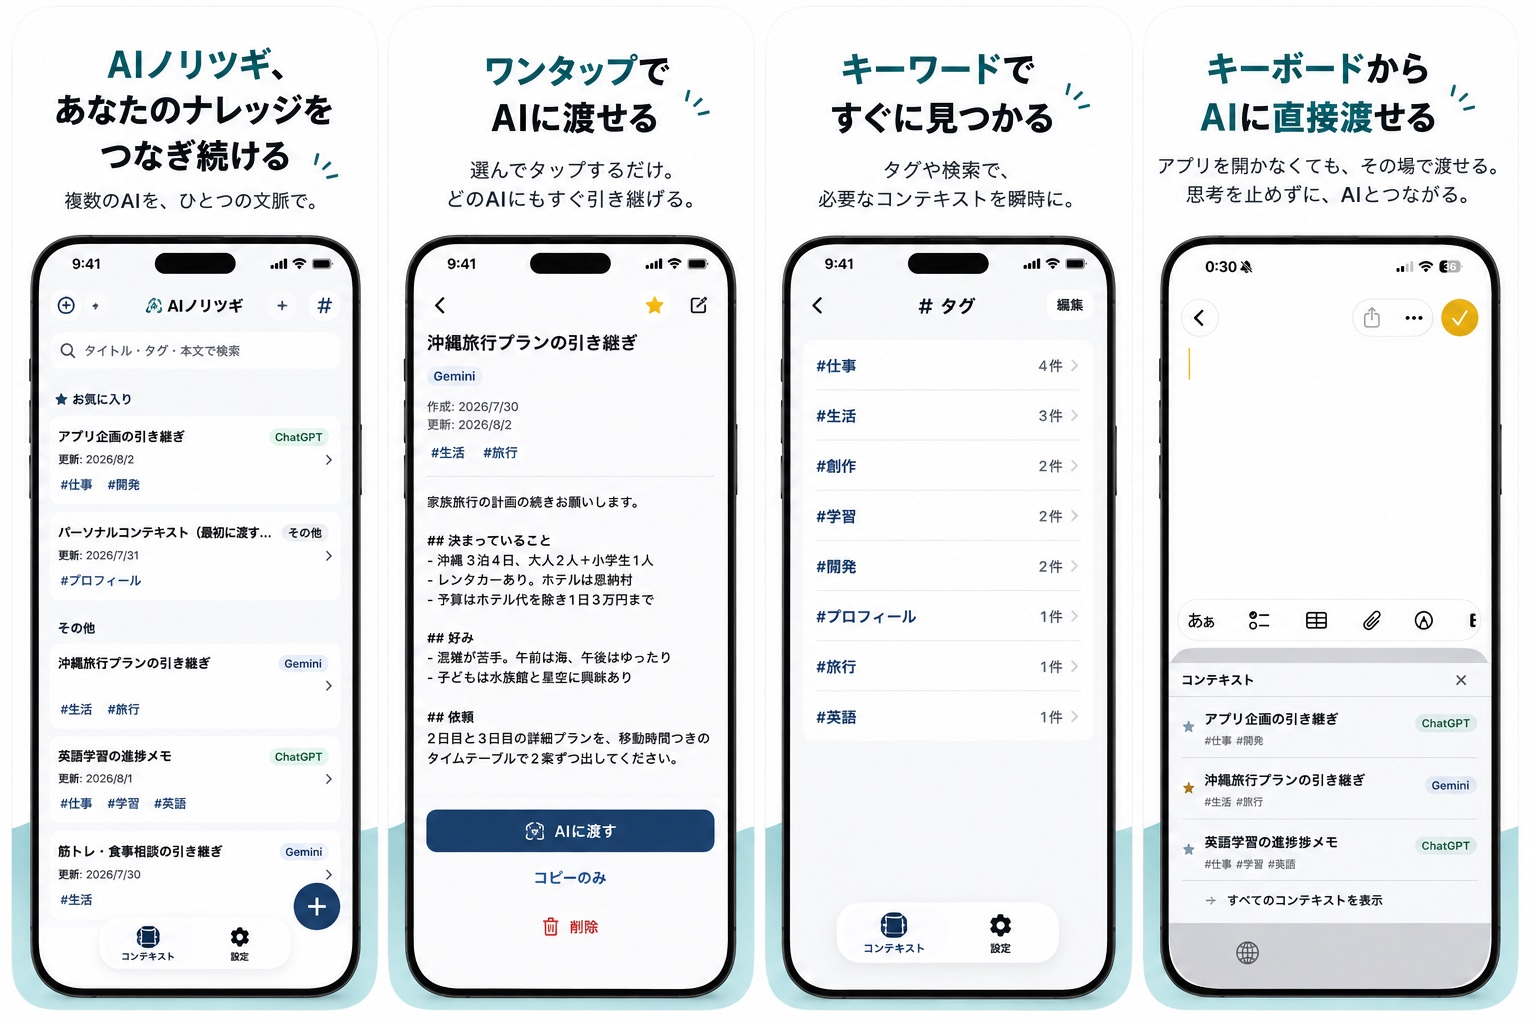
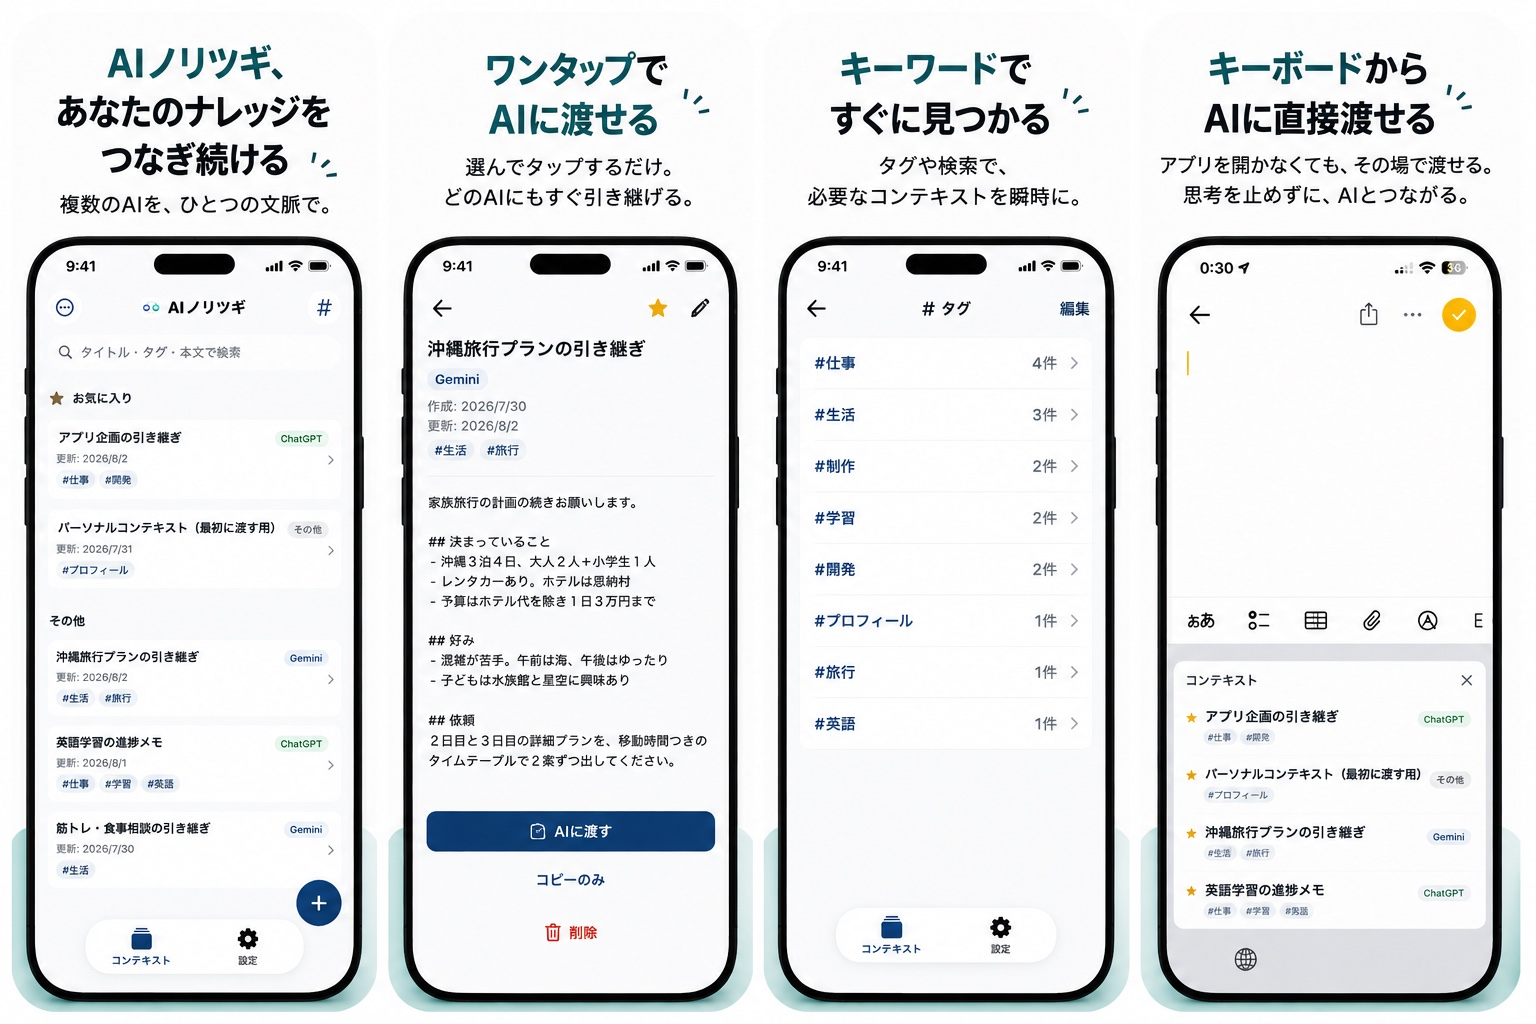
feat(ai-noritsugi): LP の紹介画像を最新ビルドで撮り直した版に差し替える (#29)
4画面まとめの紹介画像を JA/EN とも撮り直し版（release/app_image_*）に更新。
ヘッダーが App Icon 表示になった現行ビルドの見た目に揃う。

- 寸法・ファイル名・CSS は据え置き（1536x1024、.shot-scroll の 640px 下限もそのまま）
- EN の alt を更新。1枚目のサブコピーが2行になり
  "Your knowledge, always connected." が増えたため

diff --git a/ai-noritsugi/en/index.html b/ai-noritsugi/en/index.html
@@ -194,7 +194,7 @@
       <h2 id="shots-h">Everything you've saved, <span class="nowrap">in one place.</span></h2>
       <figure class="shot">
         <div class="shot-scroll">
-          <img class="shot-img" src="../app-image-en.jpg" width="1536" height="1024" decoding="async" alt="Four app screens. 1. The context list — “AI Noritsugi, Your Knowledge, Always Connected. Multiple AIs, one seamless hub.” 2. A single context — “One Tap to AI. Tap any context, instantly continue with AI.” 3. The tag list — “Find Instantly with Tags. Search or browse tags to find what you need, fast.” 4. The keyboard open inside another app — “Type, Tap, AI Gets It. No need to open the app. Connect with AI, anywhere. Anytime.”">
+          <img class="shot-img" src="../app-image-en.jpg" width="1536" height="1024" decoding="async" alt="Four app screens. 1. The context list — “AI Noritsugi, Your Knowledge, Always Connected. Multiple AIs, one seamless hub. Your knowledge, always connected.” 2. A single context — “One Tap to AI. Tap any context, instantly continue with AI.” 3. The tag list — “Find Instantly with Tags. Search or browse tags to find what you need, fast.” 4. The keyboard open inside another app — “Type, Tap, AI Gets It. No need to open the app. Connect with AI, anywhere. Anytime.”">
         </div>
         <figcaption>The list, a single context, tags, and the keyboard.</figcaption>
       </figure>
